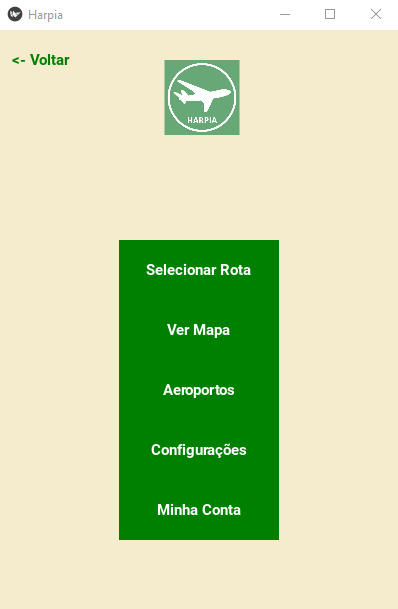
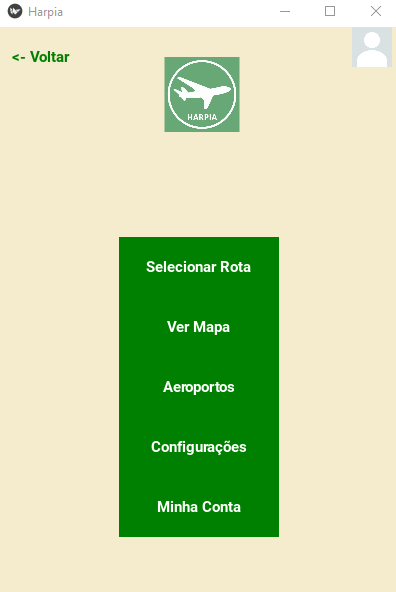
1stsegcarna

diff --git a/apirdmet.py b/apirdmet.py
@@ -1,37 +1,54 @@
 # API oficial com dados oficiais de aviação da rede Redemet,
 # para compilar e fazer o display no App.
 
-from flask import Flask, jsonify
-import requests
 
-app = Flask(__name__)
+import requests
+import os
+from kivy.app import App
+from kivy.uix.boxlayout import BoxLayout
+from kivy.uix.label import Label
 
 API_KEY = 'xzvjAbr90ReXv02lZa8zWV4DPqzoNW1eaIiIopkF'
 
-@app.route('/weather/<icao_code>')
-def get_weather(icao_code):
-    url = f'https://api-redemet.decea.gov.br/mg/{icao_code}'
-    headers = {'X-Api-Key': API_KEY}
-    response = requests.get(url, headers=headers)
+class Redemet(App):
 
-    if response.status_code == 200:
-        data = response.json()
-        clima = {
-            'icao_code': data['local'],
-            'temperature': data['temperatura'],
-            'dew_point': data['temperatura_ponto_orvalho'],
-            'wind_direction': data['direcao_vento'],
-            'wind_speed': data['velocidade_vento'],
-            'pressure': data['pressao_atm'],
-            'humidity': data['umidade_rel']
-        }
-        return jsonify(clima)
-    else:
-        return jsonify({'error': 'Sem contato com a central, tente de novo.'}), 500
+    def build(self):
+        layout = BoxLayout(orientation='vertical')
 
-#mostrando informação ao usuário:
+        # Add a label to display the weather data
+        self.weather_label = Label(text="")
+
+        # Add the label to the layout
+        layout.add_widget(self.weather_label)
+
+        return layout
+
+    def on_start(self):
+        # Retrieve the weather data
+        icao_code = "SBSP"
+        url = 'https://api-redemet.decea.gov.br/mg/{}'.format(icao_code)
+        headers = {'X-Api-Key': API_KEY}
+        response = requests.get(url, headers=headers)
+
+        if response.status_code == 200:
+            data = response.json()
+            clima = {
+                'icao_code': data['local'],
+                'temperature': data['temperatura'],
+                'dew_point': data['temperatura_ponto_orvalho'],
+                'wind_direction': data['direcao_vento'],
+                'wind_speed': data['velocidade_vento'],
+                'pressure': data['pressao_atm'],
+                'humidity': data['umidade_rel']
+            }
 
 
+            self.weather_label.text = f"Código ICAO : {clima['icao_code']}\nTemperatura: {clima['temperature']}°C" \
+                                      f"\nPonto orvalho: {clima['dew_point']}°C\nDireção vento: {clima['wind_direction']}°" \
+                                      f"\nVelocidade vento: {clima['wind_speed']} kts\nPressão: {clima['pressure']}" \
+                                      f" hPa\nHumidade: {clima['humidity']}%"
+        else:
+            self.weather_label.text = 'Erro: Não foi possível acessar os dados'
 
 if __name__ == '__main__':
-    app.run(debug=True)
+    Redemet().run()

diff --git a/appmenu.py b/appmenu.py
@@ -27,7 +27,7 @@ class MainMenuScreen(FloatLayout):
         self.add_widget(
             Image(source="Harpialogo.jpeg", size_hint=(None, None), size=(150, 75), pos_hint={'x': 0.32, 'top': 0.95}))
         self.add_widget(
-            Image(source="fotobranca.jpg", size_hint=(None, None), size=(90, 40), pos_hint={'x': 0.79, 'top': 1}))
+            Image(source="fotobranca.jpg", size_hint=(None, None), size=(90, 40), pos_hint={'x': 0.82, 'top': 1}))
 
         # Adicionando botões
         button_height = 0.1
